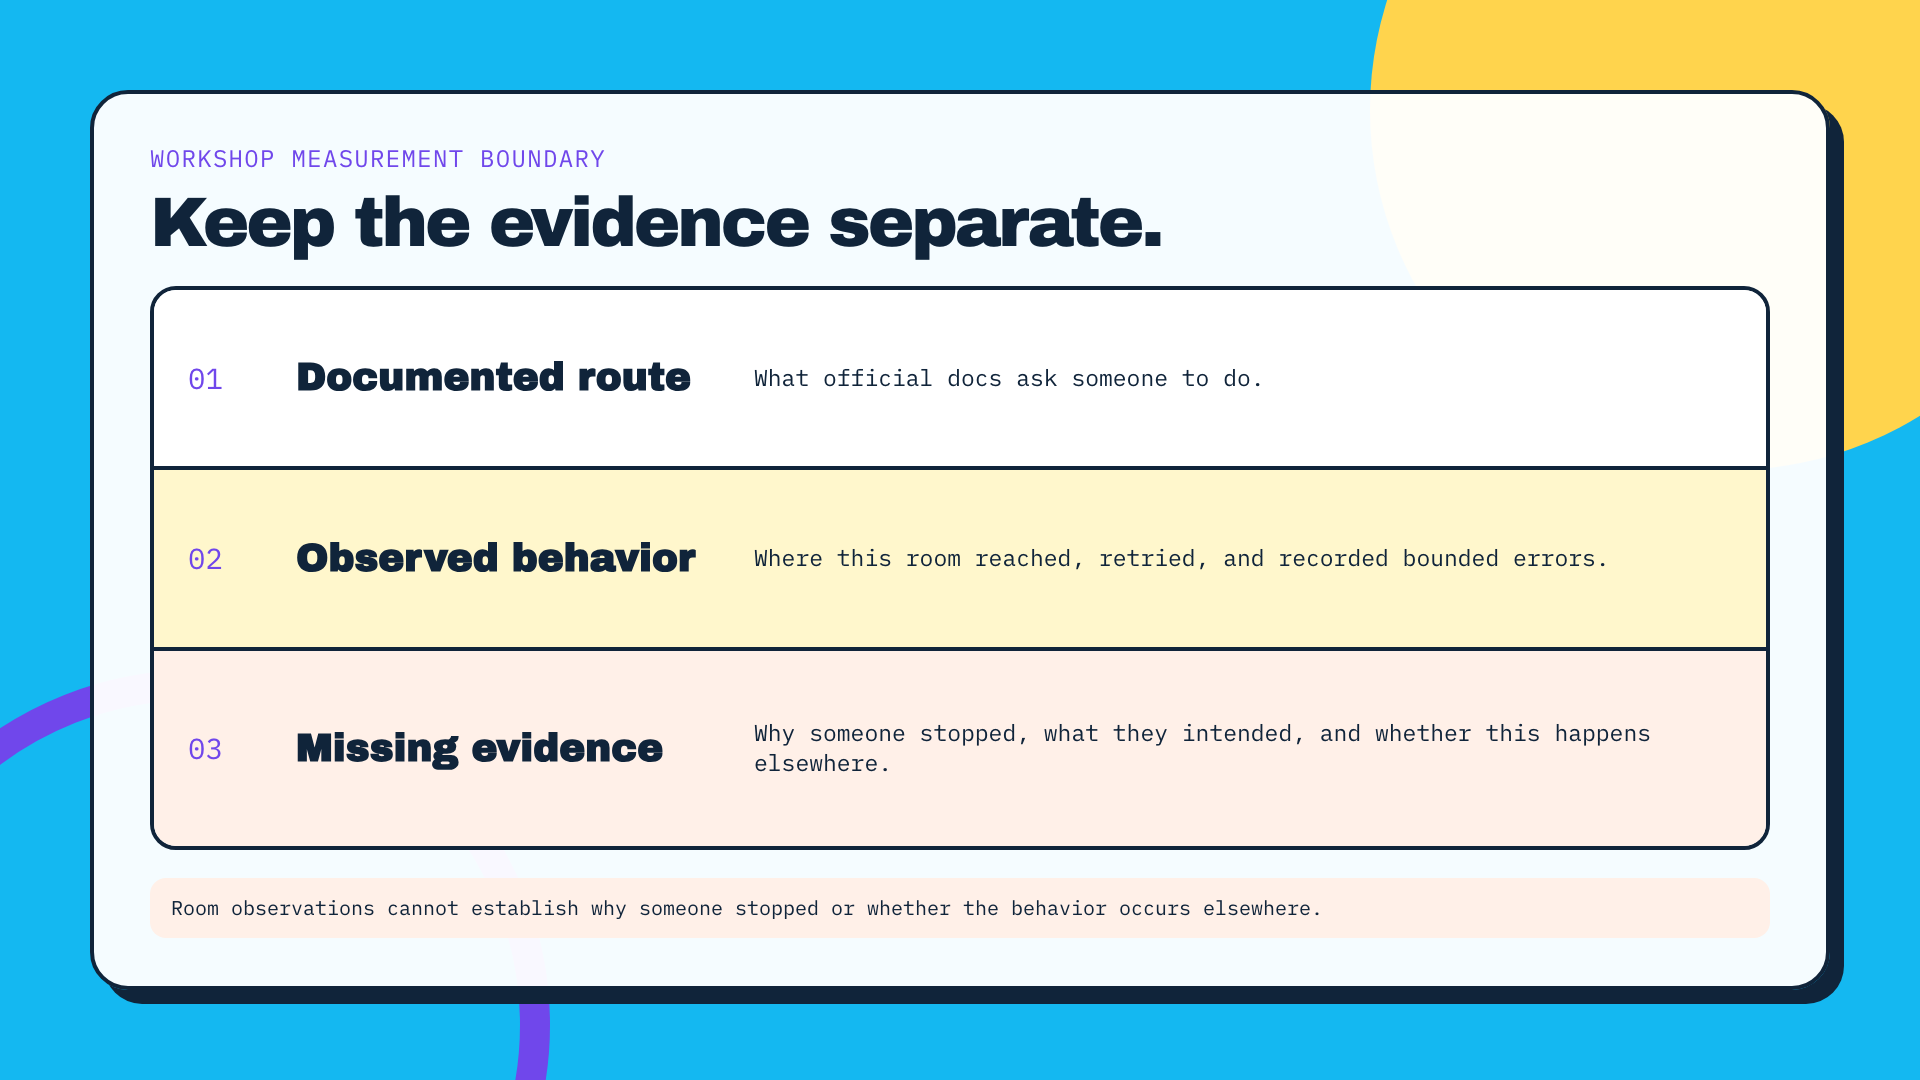
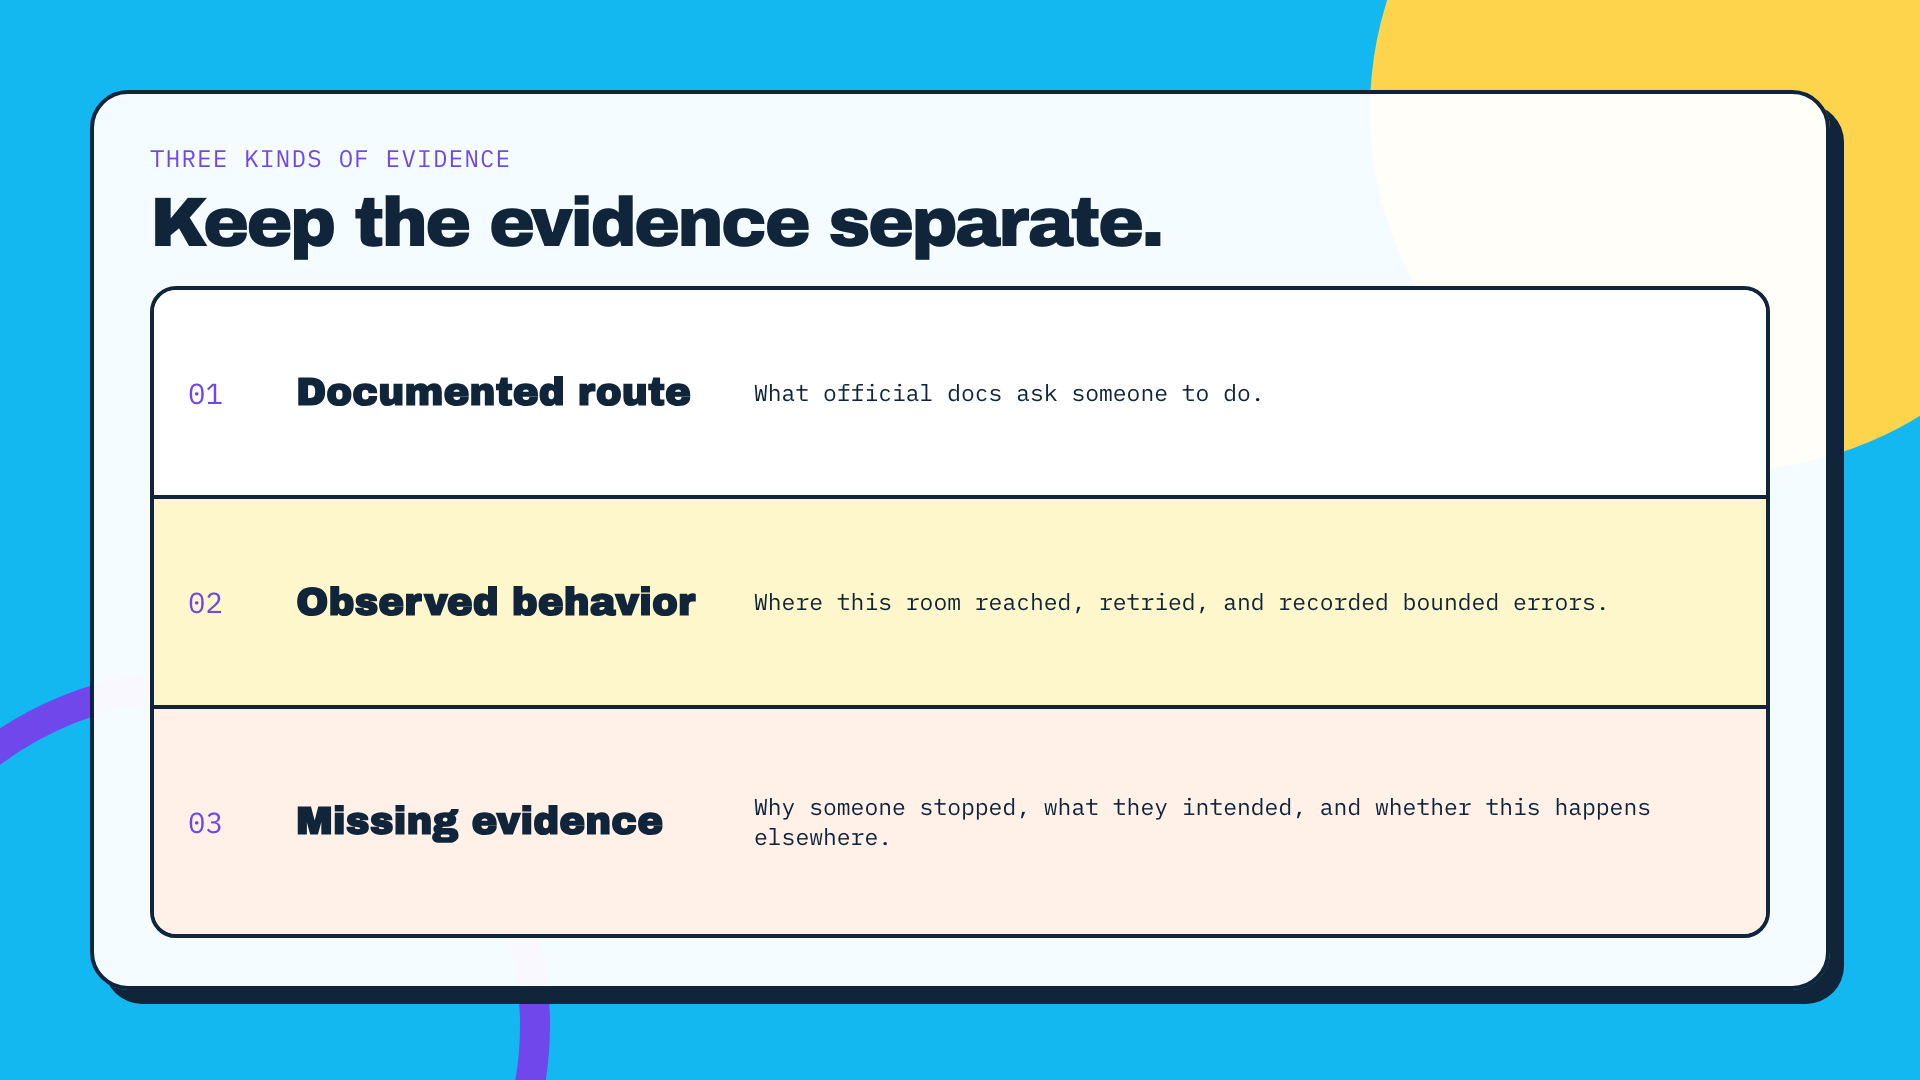
Refine evidence language and address review feedback

diff --git a/index.html b/index.html
@@ -130,7 +130,7 @@
         <section class="slide slide--evidence slide--unified" data-slide="22" aria-label="Three evidence boundaries" hidden>
           <div class="story-surface">
             <div class="surface-heading">
-              <p class="source-label">WORKSHOP MEASUREMENT BOUNDARY</p>
+              <p class="source-label">THREE KINDS OF EVIDENCE</p>
               <h1>Keep the evidence separate.</h1>
             </div>
             <div class="evidence-bands">
@@ -147,14 +147,13 @@
                 <div><h2>Missing evidence</h2><p>Why someone stopped, what they intended, and whether this happens elsewhere.</p></div>
               </article>
             </div>
-            <p class="surface-boundary">Room observations cannot establish why someone stopped or whether the behavior occurs elsewhere.</p>
           </div>
         </section>
 
         <section class="slide slide--scope slide--unified" data-slide="11" aria-label="What the exercise recorded" hidden>
           <div class="story-surface">
             <div class="surface-heading">
-              <p class="source-label">WORKSHOP MEASUREMENT BOUNDARY</p>
+              <p class="source-label">WHAT THE ROOM SENT</p>
               <h1>Positions, bounded events, and time.</h1>
             </div>
             <div class="scope-grid">
@@ -181,7 +180,7 @@
         <section class="slide slide--gates slide--unified" data-slide="14" aria-label="Examples of documented gates" hidden>
           <div class="story-surface">
             <div class="surface-heading">
-              <p class="source-label">DOCUMENTED ROUTE DATA · 205 RECORDS</p>
+              <p class="source-label">FOUR EXAMPLES FROM 205 ROUTES</p>
               <h1>The setup work takes different forms.</h1>
             </div>
             <div class="gate-grid">
@@ -190,29 +189,27 @@
               <article><h2>Airtable</h2><p>Token scopes and resource selection</p></article>
               <article><h2>Ably</h2><p>Four capabilities, plus a production credential warning</p></article>
             </div>
-            <p class="source-note">Selected official-source examples. Pages checked July 21, 2026.</p>
           </div>
         </section>
 
         <section class="slide slide--method slide--unified" data-slide="15" aria-label="Research method" hidden>
           <div class="story-surface">
             <div class="surface-heading">
-              <p class="source-label">DOCUMENTED ROUTE DATA · 205 RECORDS</p>
+              <p class="source-label">RESEARCH METHOD</p>
               <h1>205 platforms. One selected route each.</h1>
             </div>
             <div class="method-grid">
               <article><p class="card-number">01</p><div><h2>Source</h2><p>Official documentation for each platform.</p></div></article>
               <article><p class="card-number">02</p><div><h2>Boundary</h2><p>One documented path to an observable terminal state.</p></div></article>
-              <article><p class="card-number">03</p><div><h2>Limit</h2><p>Documentation research, not product telemetry or observed completion time.</p></div></article>
+              <article><p class="card-number">03</p><div><h2>Recorded</h2><p>The same route fields for every platform.</p></div></article>
             </div>
-            <p class="evidence-handoff">Slides 23 and 24 describe 205 documented-route records. Slide 25 uses a separate blocker hypothesis graph.</p>
             <p class="source-note">Record = one platform + one selected surface + one documented route + one research snapshot.</p>
           </div>
         </section>
 
         <section class="slide slide--finding slide--unified" data-slide="23" aria-label="Route selection finding" hidden>
           <div class="story-surface finding-surface">
-            <p class="source-label">DOCUMENTED ROUTE DATA · 205 RECORDS</p>
+            <p class="source-label">ROUTE SELECTION · 205 RECORDS</p>
             <div class="finding-layout">
               <div class="finding-primary">
                 <p class="finding-number" data-stat="selectionPrimary"></p>
@@ -224,31 +221,28 @@
                 <p class="finding-action">Recommend one next route for a specific developer intent.</p>
               </div>
             </div>
-            <p class="surface-boundary">This describes route selection in the research records. It does not measure developer preference or abandonment.</p>
           </div>
         </section>
 
         <section class="slide slide--finding slide--unified" data-slide="24" aria-label="Success boundary finding" hidden>
           <div class="story-surface">
             <div class="surface-heading">
-              <p class="source-label">DOCUMENTED ROUTE DATA · 205 RECORDS</p>
+              <p class="source-label">SUCCESS BOUNDARIES · 205 RECORDS</p>
               <h1>Most quickstarts show an ending. Fewer name the milestone.</h1>
             </div>
             <div class="number-grid" data-boundary-stats></div>
-            <p class="surface-boundary">A demonstrated terminal is not necessarily a poor outcome. The research only records whether the inspected documentation explicitly names the milestone.</p>
           </div>
         </section>
 
         <section class="slide slide--ambiguity slide--unified" data-slide="25" aria-label="Observed position does not diagnose cause" hidden>
           <div class="story-surface">
             <div class="surface-heading">
-              <p class="source-label">BLOCKER HYPOTHESIS GRAPH · SEPARATE DATASET</p>
-              <h1>A stopping point locates the search. It does not identify the cause.</h1>
+              <p class="source-label">HYPOTHESIS MAP</p>
+              <h1>A stopping point narrows the search.</h1>
             </div>
             <div class="ambiguity-grid" data-ambiguity-stats></div>
             <div class="ambiguity-footer">
-              <p class="ambiguity-action">Choose the next evidence, not the answer.</p>
-              <p class="surface-boundary">These are catalog candidates, not observed, common, severe, or causal blockers.</p>
+              <p class="ambiguity-action">Choose the next evidence.</p>
             </div>
           </div>
         </section>
@@ -263,7 +257,7 @@
                 <li>Choose one documented condition worth checking.</li>
                 <li>If your platform is missing, write down the mismatch.</li>
               </ol>
-              <p class="resource-limit">The Atlas suggests what to investigate. It does not diagnose behavior.</p>
+              <p class="resource-limit">Use the Atlas to choose what to investigate next.</p>
             </div>
             <div class="resource-qr">
               <div class="qr-frame qr-frame--takeaway" data-qr-frame="comparison" data-qr-size="336" aria-live="off"></div>

diff --git a/theme-bright.css b/theme-bright.css
@@ -1284,15 +1284,6 @@ body {
   line-height: 1.3;
 }
 
-.finding-footer {
-  display: grid;
-  gap: 10px;
-}
-
-.finding-footer > p:first-child {
-  font-size: 36px;
-}
-
 .slide--ambiguity {
   background: var(--soft-coral);
 }
@@ -1490,6 +1481,7 @@ body {
 .slide--unified {
   --orb: var(--aegean);
   --ring: var(--signal);
+
   display: grid;
   grid-template: 1fr / 1fr;
   place-items: center;
@@ -1528,6 +1520,7 @@ body {
 .slide--workflow {
   --orb: var(--sun);
   --ring: var(--signal);
+
   background: var(--sky);
 }
 
@@ -1535,6 +1528,7 @@ body {
 .slide--firstmile {
   --orb: var(--aegean);
   --ring: var(--sun);
+
   background: var(--signal);
 }
 
@@ -1544,6 +1538,7 @@ body {
 .slide--closing {
   --orb: var(--aegean);
   --ring: var(--signal);
+
   background: var(--sun);
 }
 
@@ -1551,6 +1546,7 @@ body {
 .slide--ambiguity {
   --orb: var(--sun);
   --ring: var(--signal);
+
   background: #ff8a66;
 }
 
@@ -1578,12 +1574,12 @@ body {
 [data-slide="11"] .story-surface,
 [data-slide="14"] .story-surface,
 [data-slide="24"] .story-surface,
-[data-slide="25"] .story-surface {
-  grid-template-rows: auto 1fr auto;
-}
-
 [data-slide="16"] .story-surface {
   grid-template-rows: auto 1fr;
+}
+
+[data-slide="25"] .story-surface {
+  grid-template-rows: auto 1fr auto;
 }
 
 [data-slide="18"] .story-surface {
@@ -1609,32 +1605,8 @@ body {
   letter-spacing: 0.055em;
 }
 
-.surface-boundary,
-.evidence-handoff,
-.surface-footer,
 .finding-action {
   font-family: var(--font-mono);
-}
-
-.surface-boundary {
-  padding: 17px 21px;
-  border-radius: 16px;
-  font-size: 20px;
-  line-height: 1.3;
-  background: var(--soft-coral);
-}
-
-.surface-footer {
-  display: flex;
-  align-items: baseline;
-  justify-content: space-between;
-  gap: 32px;
-  font-size: 21px;
-  line-height: 1.3;
-}
-
-.surface-footer .source-note {
-  text-align: right;
 }
 
 .evidence-bands {
@@ -1795,20 +1767,12 @@ body {
   align-items: center;
 }
 
-.evidence-handoff {
-  padding: 18px 22px;
-  border-radius: 16px;
-  font-size: 20px;
-  line-height: 1.3;
-  background: var(--lavender);
-}
-
 .story-surface > .source-note {
   font-size: 18px;
 }
 
 .finding-surface {
-  grid-template-rows: auto 1fr auto;
+  grid-template-rows: auto 1fr;
 }
 
 .story-surface .finding-layout {
@@ -1929,18 +1893,6 @@ body {
   font-size: 22px;
 }
 
-.story-surface .finding-footer {
-  gap: 10px;
-}
-
-.story-surface .finding-footer > p:first-child {
-  font-size: 30px;
-}
-
-.story-surface .finding-footer .surface-boundary {
-  font-size: 18px;
-}
-
 .story-surface .ambiguity-grid .number-card {
   min-height: 270px;
   padding: 28px 30px;
@@ -1955,10 +1907,7 @@ body {
 }
 
 .ambiguity-footer {
-  display: grid;
-  grid-template-columns: 0.72fr 1.28fr;
-  gap: 22px;
-  align-items: stretch;
+  display: flex;
 }
 
 .story-surface .ambiguity-action {

diff --git a/README.md b/README.md
@@ -139,9 +139,16 @@ A null URL renders a fixed-size placeholder. Configured QR codes are generated l
 
 Prerequisites: Python 3 for a static server and Node.js for the structural check.
 
+Start the server in one terminal:
+
+```sh
+python3 -m http.server 4173
+```
+
+Run the checks in a second terminal:
+
 ```sh
 node scripts/check-deck.mjs
-python3 -m http.server 4173
 NODE_PATH=/path/to/playwright/node_modules node scripts/check-browser.cjs
 ```
 
